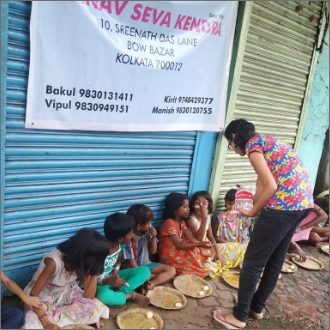
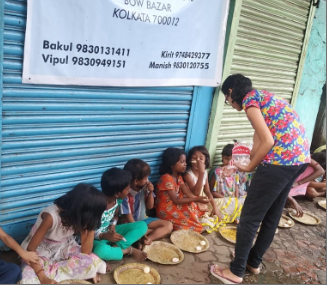
image changed

diff --git a/Gallery/gallery.html b/Gallery/gallery.html
@@ -58,7 +58,7 @@
         <div class="container">
             <div class="row" >
                 <div class="col-md-3 col-sm-6 gallery-col" data-aos="flip-up">
-                    <a href="#"><img src="./res/00e98492-7319-4597-910b-b0c4cce420f5.png"></a>
+                    <a href="#"><img src="./res/00e98492-7319-4597-910b-b0c4cce420f5.png" style="width: 100%; height: 100%;"></a>
                 </div>
                 <div class="col-md-3 col-sm-6 gallery-col" data-aos="flip-up">
                     <a href="#"><img src="./res/2c2d953d-3a95-401f-9b03-a37e1aeeb2f1.png"></a>
